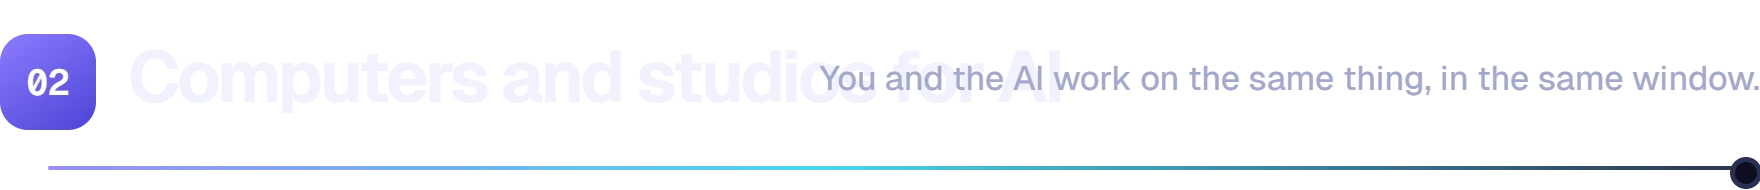
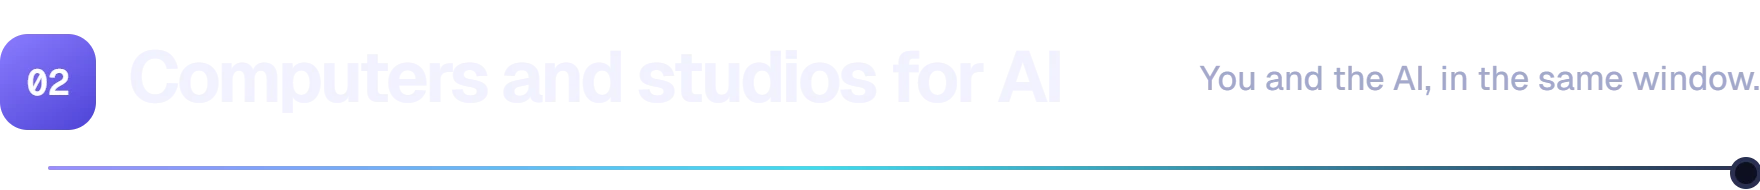
Shorten the section 2 sentence so it clears the title (#2)

Changed region(s): [[0.4688, 0.3421, 0.8125, 0.5]]

diff --git a/README.md b/README.md
@@ -16,7 +16,7 @@
 
 <br>
 
-<picture><source media="(prefers-color-scheme: dark)" srcset="assets/tiles/s-studios-dark.webp"><img src="assets/tiles/s-studios-light.webp" alt="Computers and studios for AI. You and the AI work on the same thing, in the same window." width="100%"></picture>
+<picture><source media="(prefers-color-scheme: dark)" srcset="assets/tiles/s-studios-dark.webp"><img src="assets/tiles/s-studios-light.webp" alt="Computers and studios for AI. You and the AI, in the same window." width="100%"></picture>
 
 <table>
 <tr><td width="50%" rowspan="2" valign="top"><a href="https://github.com/flujo-app/mcp-virtual-computer"><picture><source media="(prefers-color-scheme: dark)" srcset="assets/tiles/virtual-computer-dark.webp"><img src="assets/tiles/virtual-computer-light.webp" alt="mcp-virtual-computer: A computer for your AI, and for you. Watch it type and click on a 3D desk." width="100%"></picture></a></td><td width="50%" valign="top"><a href="https://github.com/flujo-app/mcp-audio-studio-mcpapp"><picture><source media="(prefers-color-scheme: dark)" srcset="assets/tiles/audio-studio-dark.webp"><img src="assets/tiles/audio-studio-light.webp" alt="mcp-audio-studio: A full music studio that you and the AI make tracks in together." width="100%"></picture></a></td></tr>
